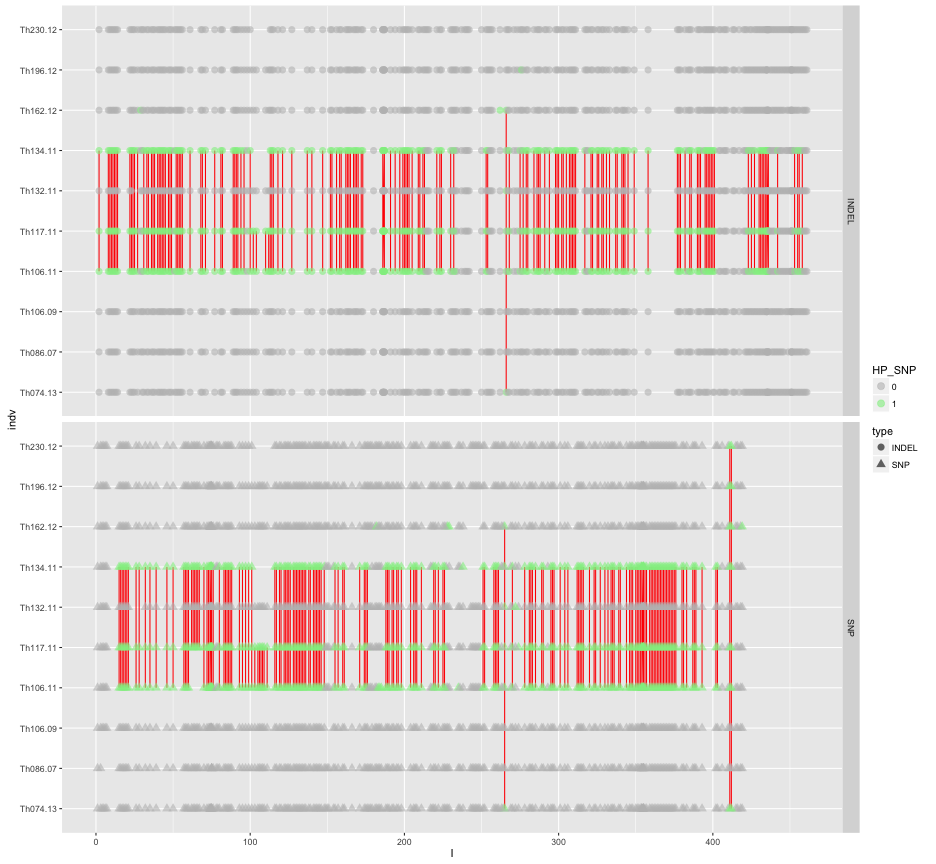
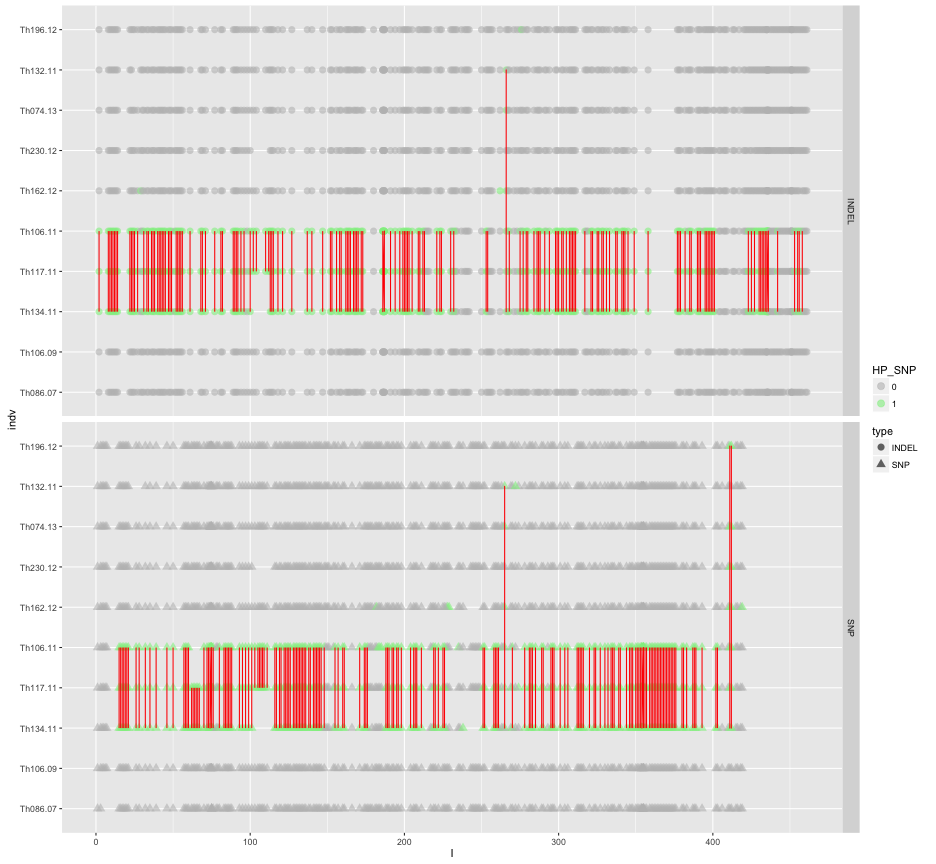
adding network plots with homoplasies

diff --git a/reports/160513_thies_homoplasies_nets/plotHaplotypes.md b/reports/160513_thies_homoplasies_nets/plotHaplotypes.md
@@ -46,6 +46,8 @@ getGenoTab <- function(filename) {
 
 ```r
 networkorder <- c("Th134.11","Th117.11","Th106.11","Th086.07","Th106.09","Th196.12","Th074.13","Th132.11","Th162.12","Th230.12")
+INDELnetworkorder <- c("Th134.11","Th117.11","Th106.11","Th086.07","Th106.09","Th196.12","Th074.13","Th132.11","Th162.12","Th230.12")
+SNPnetworkorder <- c("Th086.07","Th106.09","Th134.11","Th117.11","Th106.11","Th162.12","Th230.12","Th074.13","Th132.11","Th196.12")
 
 clade3F <- "clade29.alleles.tab.txt"
 genotab3 <- getGenoTab(clade3F)
@@ -113,6 +115,11 @@ dim(genotab3HPI)
 
 ```
 ## [1] 13570     4
+```
+
+```r
+genotabNS$indv <- factor(genotabNS$indv,levels = networkorder,ordered=T)
+genotab$indv <- factor(genotab$indv,levels = networkorder,ordered=T)
 ```
 
 
@@ -211,14 +218,16 @@ ggplot(genotabNS,aes(x=pos,y=indv,colour=HP_INDEL,group=haplo,shape=type)) + geo
 #Clade3 NO SINGLETONS INDEXED
 
 #SNP net homoplasies
-ggplot(genotabNS,aes(x=I,y=indv,colour=HP_SNP,group=pos,shape=type)) + geom_line(data=subset(genotabNS,HP_SNP == 1),colour="red") + 
-  geom_point(alpha=0.6,size=3) + facet_grid(type ~ .)  +colsc
+genotabNS$indv <- factor(genotabNS$indv,levels = SNPnetworkorder,ordered=T)
+ggplot(genotabNS,aes(x=I,y=indv,colour=HP_SNP,group=pos,shape=type)) + geom_point(alpha=0.6,size=3) + geom_line(data=subset(genotabNS,HP_SNP == 1),colour="red") + 
+  facet_grid(type ~ .)  +colsc
 ```
 
 ![plot of chunk unnamed-chunk-6](figure/unnamed-chunk-6-1.png)
 
 ```r
 #INDEL net homoplasies
+genotabNS$indv <- factor(genotabNS$indv,levels = INDELnetworkorder,ordered=T)
 ggplot(genotabNS,aes(x=I,y=indv,colour=HP_INDEL,group=pos,shape=type)) + geom_line(data=subset(genotabNS,HP_INDEL == 1),colour="red") + 
   geom_point(alpha=0.6,size=3) + facet_grid(type ~ .)  +colsc
 ```
